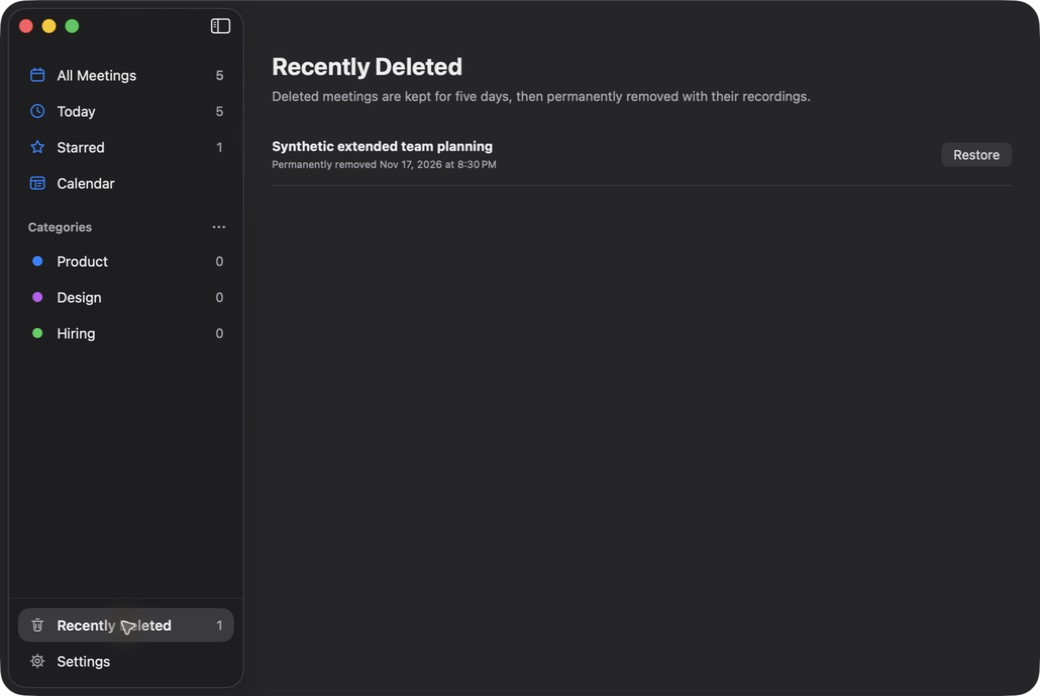
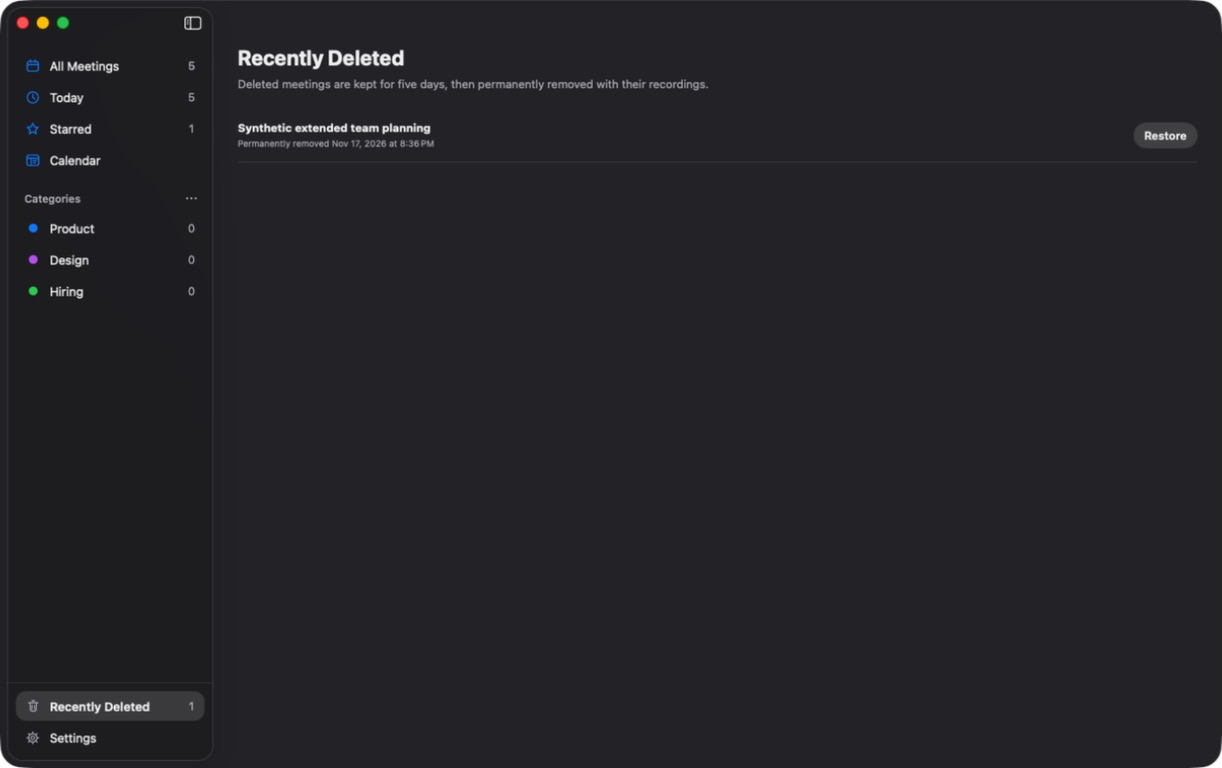
Share Copy capsule button styling across common actions

diff --git a/Sources/Stillnote/Views/SummaryPage.swift b/Sources/Stillnote/Views/SummaryPage.swift
@@ -40,19 +40,9 @@ struct SummaryPage: View {
                     .help(meeting.summary.map { "Generated with \($0.provider) · \($0.model)" } ?? "")
                 Spacer(minLength: 8)
                 if let summary = meeting.summary {
-                    Button { copy(summary) } label: {
-                        HStack(spacing: 6) {
-                            Icon(copied ? .check : .copy, size: 15, lineWidth: 1.8)
-                            Text(copied ? "Copied" : "Copy").font(.system(size: 13, weight: .semibold))
-                        }
-                        .foregroundStyle(DS.text)
-                        .padding(.leading, 10)
-                        .padding(.trailing, 12)
-                        .frame(height: 30)
-                        .background(DS.hover, in: .capsule)
-                        .contentShape(.capsule)
+                    CapsuleButton(title: copied ? "Copied" : "Copy", icon: copied ? .check : .copy) {
+                        copy(summary)
                     }
-                    .buttonStyle(.plain)
                     .help("Copy summary")
                 }
             }

diff --git a/Sources/Stillnote/Views/SpeakerPicker.swift b/Sources/Stillnote/Views/SpeakerPicker.swift
@@ -173,19 +173,7 @@ private struct SpeakerPicker: View {
                     .lineLimit(1)
             }
             .frame(maxWidth: .infinity, alignment: .leading)
-            Button(action: listen) {
-                HStack(spacing: 6) {
-                    Icon(.play, size: 13, filled: true)
-                    Text("Listen").font(.system(size: 12.5, weight: .semibold))
-                }
-                .foregroundStyle(DS.text)
-                .padding(.leading, 9)
-                .padding(.trailing, 12)
-                .frame(height: 30)
-                .background(DS.hover, in: .capsule)
-                .contentShape(.capsule)
-            }
-            .buttonStyle(.plain)
+            CapsuleButton(title: "Listen", icon: .play, iconFilled: true, action: listen)
             .disabled(player?.unplayableReason != nil || player == nil)
             .accessibilityLabel("Play a voice sample from this speaker")
         }

diff --git a/Sources/Stillnote/Views/CapsuleButton.swift b/Sources/Stillnote/Views/CapsuleButton.swift
@@ -1,0 +1,28 @@
+import SwiftUI
+
+/// The compact secondary action used by Copy, Listen, and Restore.
+/// Call sites supply content and behavior; sizing, colors, and shape stay shared.
+struct CapsuleButton: View {
+    let title: String
+    var icon: DesignIcon?
+    var iconFilled = false
+    let action: () -> Void
+
+    var body: some View {
+        Button(action: action) {
+            HStack(spacing: 6) {
+                if let icon {
+                    Icon(icon, size: 15, lineWidth: 1.8, filled: iconFilled)
+                }
+                Text(title).font(.system(size: 13, weight: .semibold))
+            }
+            .foregroundStyle(DS.text)
+            .padding(.leading, icon == nil ? 12 : 10)
+            .padding(.trailing, 12)
+            .frame(height: 30)
+            .background(DS.hover, in: .capsule)
+            .contentShape(.capsule)
+        }
+        .buttonStyle(.plain)
+    }
+}

diff --git a/Sources/Stillnote/Views/RecentlyDeletedView.swift b/Sources/Stillnote/Views/RecentlyDeletedView.swift
@@ -34,7 +34,7 @@ struct RecentlyDeletedView: View {
                                             .font(.caption).foregroundStyle(DS.text2)
                                     }
                                     Spacer()
-                                    Button("Restore") {
+                                    CapsuleButton(title: "Restore") {
                                         restoring.insert(meeting.id)
                                         Task {
                                             await model.restoreDeleted(meeting.id)
